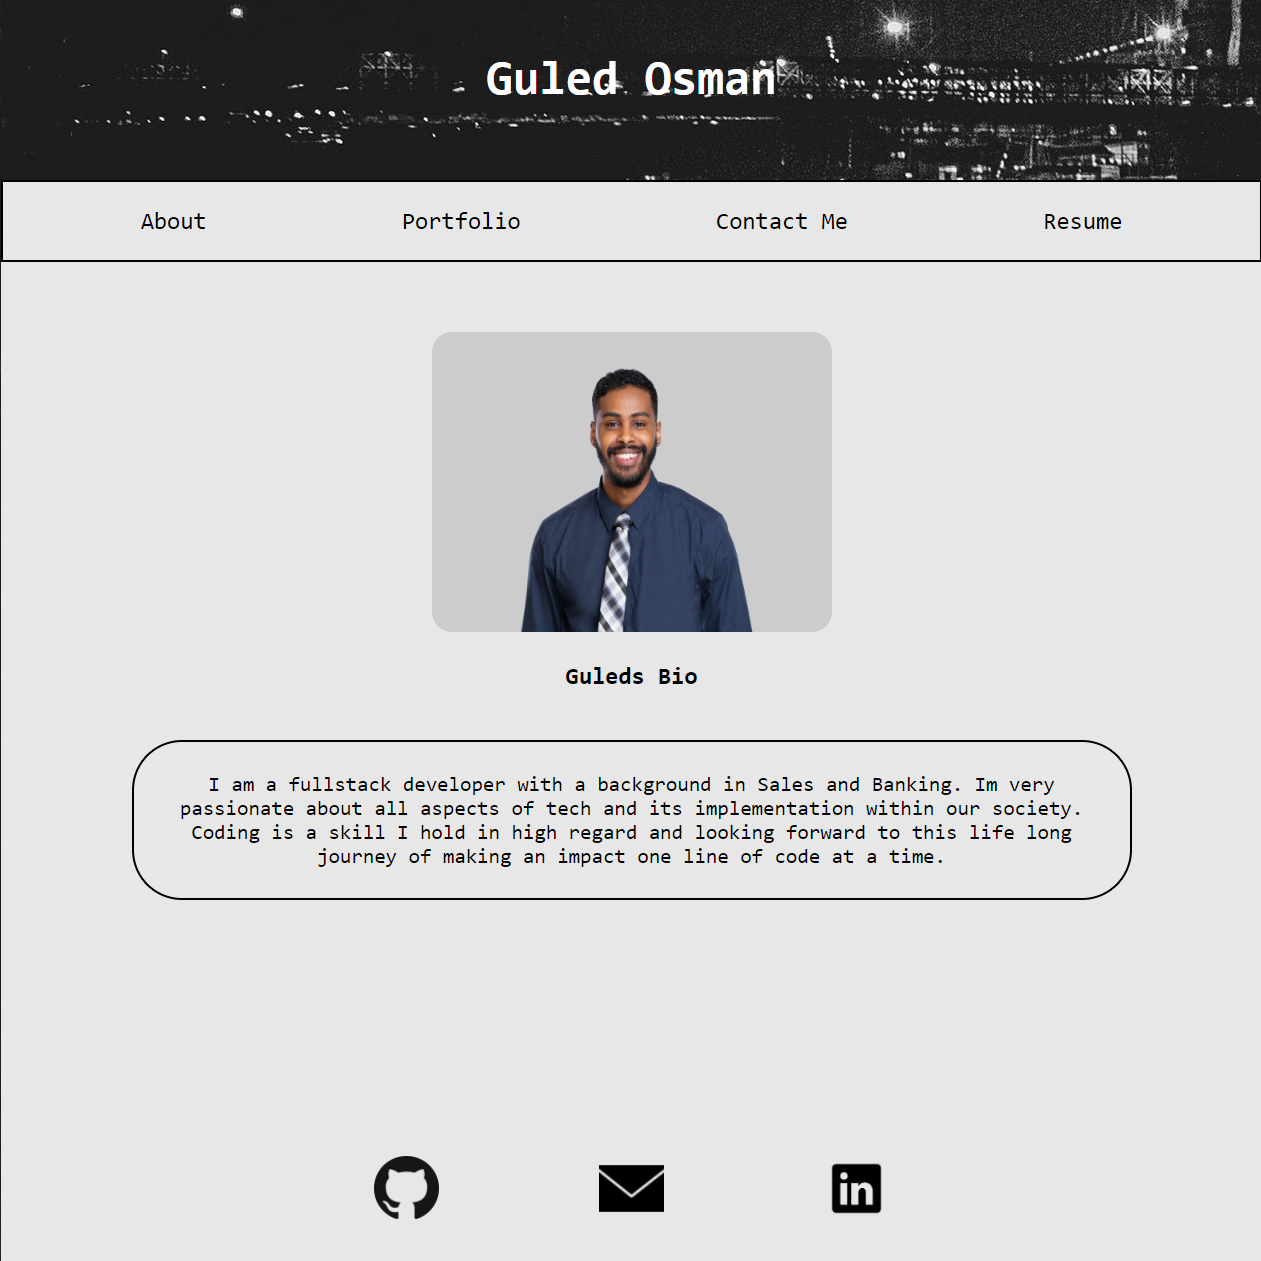
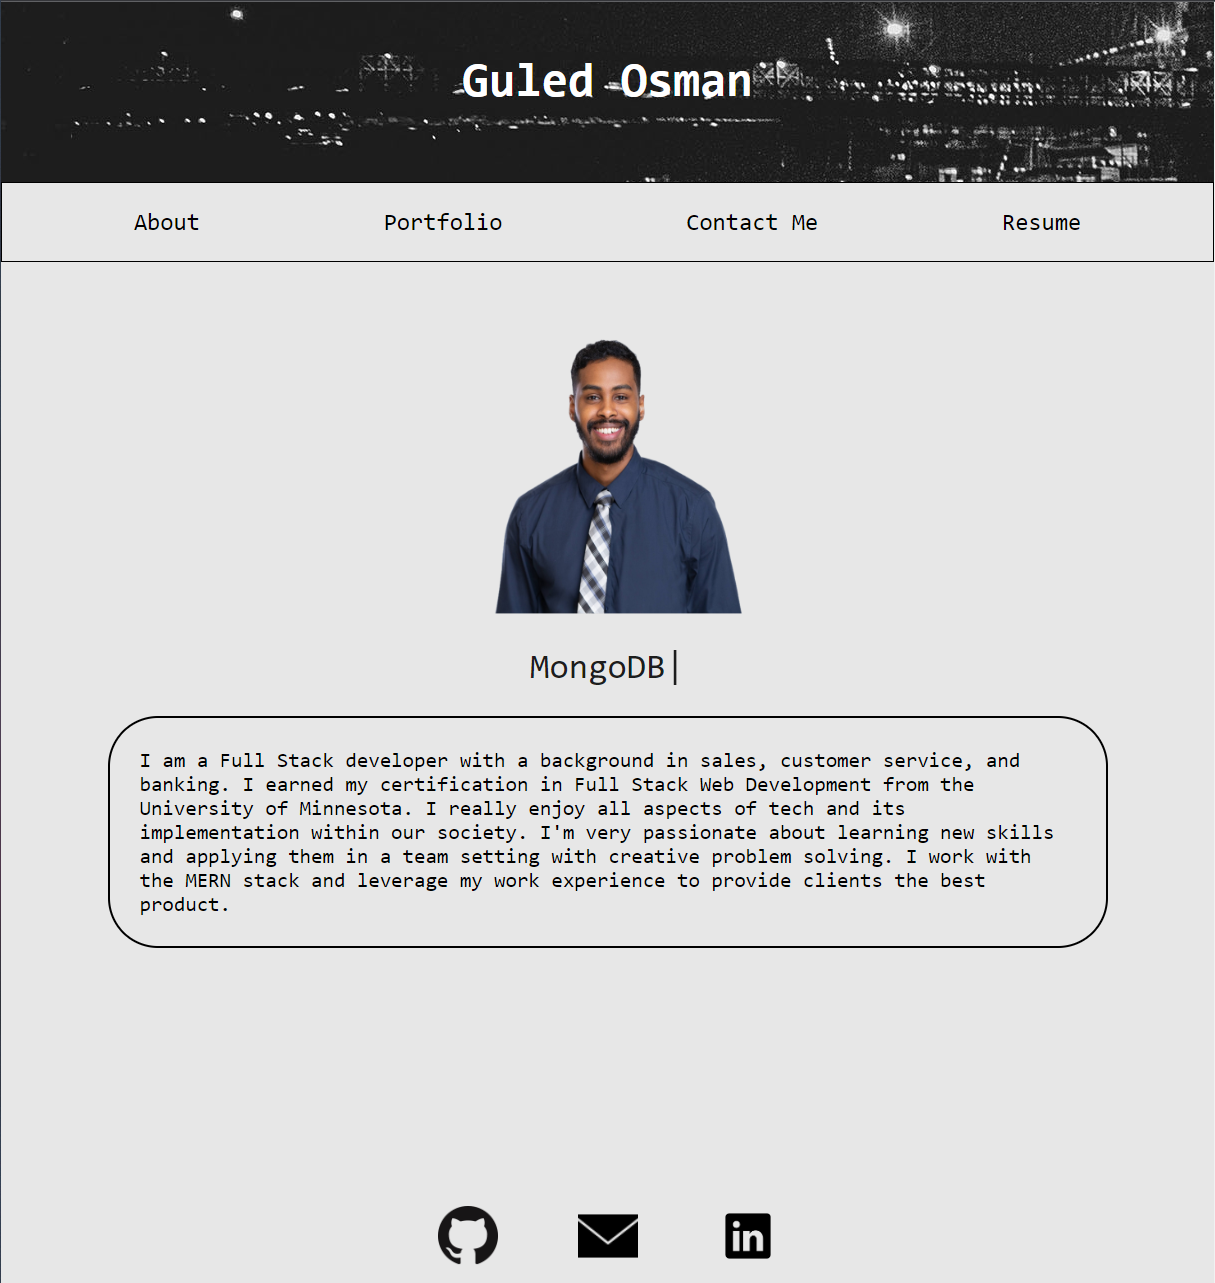
readme

diff --git a/src/index.css b/src/index.css
@@ -79,13 +79,22 @@ body {
   max-width: 1000px;
   margin: 0 auto 40px;
   margin-top: 20px;
+  text-align: left;
+}
+
+.borderp {
+  padding: 0px 5px 0px 5px;
 }
 
 .flex {
   display: flex;
   flex-wrap: wrap;
   text-decoration: none;
-  border: 2px solid black;
+  border: 1px solid black;
+  margin-top: 13px;
+}
+.flex a {
+  padding: 10px;
 }
 
 p {
@@ -123,7 +132,7 @@ input {
   display: flex;
   align-items: center;
   justify-content: center;
-  margin-top: 70px;
+  margin-top: 2px;
 }
 
 textarea {
@@ -182,11 +191,12 @@ footer {
   /* height: 40vh; */
   position: relative;
   margin: auto;
-  text-align: center;
-  margin-top: 60px;
+  text-align: left;
+  margin-top: 10px;
   display: flex;
   max-width: 600px;
   min-width: 400px;
+  justify-content: center;
 }
 
 .proj h2 {
@@ -210,6 +220,11 @@ footer {
   height: 350px;
   border-width: 3px;
   border-radius: 10px;
+  border: solid 1px;
+}
+.Projh {
+  text-align: center;
+  margin-top: 20px;
 }
 
 .port-buttons {
@@ -217,13 +232,13 @@ footer {
   color: white;
   position: absolute;
   bottom: 6%;
-  left: 4%;
   width: 60%;
   height: 170px;
   padding: 10px;
   border-radius: 10px;
   opacity: 0.85;
   box-shadow: 1px 1px 1px lightgray;
+  margin-right: 80px;
 }
 
 .port-buttons a {
@@ -235,6 +250,9 @@ footer {
   margin-right: 30px;
   box-shadow: 1px 1px 1px lightgray;
 }
+.port-buttons p {
+  text-align: left;
+}
 .port-buttons a:hover {
   background-color: rgb(255, 255, 255);
   color: black;
@@ -244,15 +262,8 @@ footer {
 .hover a:hover {
   background-color: rgb(29, 29, 29);
   color: white;
-  border-radius: 20px;
-  padding: 10px 10px;
-}
-
-.hover a:active {
-  background-color: rgb(29, 29, 29);
-  color: white;
-  border-radius: 20px;
-  padding: 10px 10px;
+  border-radius: 10px;
+  padding: 4px 10px 2px 10px;
 }
 
 @media screen and (max-width: 1400px) {
@@ -265,7 +276,6 @@ footer {
     margin: 10px auto;
     margin-top: 70px;
   }
-
   .proj img {
     width: 100%;
   }
@@ -275,11 +285,22 @@ footer {
   }
 }
 
+@media screen and (max-width: 1104px) {
+  .projectsDiv h2 {
+    font-size: 16px;
+  }
+  .port-buttons a {
+    font-size: 13px;
+  }
+  .port-buttons p {
+    font-size: 14px;
+  }
+}
+
 @media screen and (max-width: 738px) {
   .projectsDiv {
-    width: 75%;
     margin: auto;
-    margin-top: 30px;
+    margin-top: 70px;
   }
   .proj {
     width: 100%;
@@ -295,14 +316,33 @@ footer {
   }
 }
 
+@media screen and (max-width: 528px) {
+  .form-look {
+    margin-right: auto;
+    margin-left: auto;
+    width: 90px;
+    text-align: center;
+  }
+  .form-look input {
+    width: 300px;
+  }
+  .form-look textarea {
+    width: 300px;
+  }
+}
+
 @media screen and (max-width: 426px) {
   .icon {
     width: 40px;
   }
   .about-me {
-    padding: 20px;
+    padding: 0px 20px 0px 20px;
   }
   .guled-pic {
     width: 100%;
+  }
+  .projectsDiv img {
+    width: 379px;
+    margin: auto;
   }
 }

diff --git a/src/components/Portfolio/index.js b/src/components/Portfolio/index.js
@@ -5,10 +5,17 @@ function Portfolio() {
   const projects = [
     {
       name: "Perspective News",
-      description: "A news app that lets you save your news",
+      description: "A news app that lets you save your news.",
       github: "https://github.com/ItzGuled/perspective-news",
       link: "https://perspective-news.herokuapp.com/",
       img: "perspective"
+    },
+    {
+      name: "Password Generator",
+      description: "A quick and easy to use password generator to meet your needs.",
+      github: "https://github.com/ItzGuled/quick-password-generator",
+      link: "https://itzguled.github.io/quick-password-generator/",
+      img: "pass"
     },
     {
       name: "Gameporium",
@@ -18,32 +25,32 @@ function Portfolio() {
       img: "game"
     },
     {
-      name: "Photo Port",
-      description: "An art gallery that uses React.",
-      github: "https://github.com/ItzGuled/photo-port",
-      link: "https://itzguled.github.io/photo-port/",
-      img: "port"
+      name: "Pizza Hunt",
+      description: "Create your own delicious pizza with numerous options to choose from.",
+      github: "https://github.com/ItzGuled/pizza-hunt",
+      link: "https://fierce-falls-54250.herokuapp.com/",
+      img: "pizza"
     },
     {
       name: "Tech Blog",
-      description: "Tech blog website to interact with others.",
+      description: "Tech blog website to interact with others on all things tech.",
       github: "https://github.com/ItzGuled/tech-blog",
       link: "https://damp-inlet-92456.herokuapp.com",
       img: "tech"
     },
     {
-      name: "Weather Dashboard",
-      description: "A weather app that gives temp based on city",
-      github: "https://github.com/ItzGuled/weather-dashboard",
-      link: "https://itzguled.github.io/weather-dashboard/",
-      img: "weather"
+      name: "Work Day Scheduler",
+      description: "A scheduler to plan you day at work with ease of use.",
+      github: "https://github.com/ItzGuled/work-day-scheduler",
+      link: "https://itzguled.github.io/work-day-scheduler/",
+      img: "work"
     },
     
   ];
 
   return (
     <section>
-
+     <h1 className="Projh">Featured Projects</h1>
       <div className='projectsDiv'>
         {projects.map((project, i) => (
           <Project

diff --git a/src/components/Nav/index.js b/src/components/Nav/index.js
@@ -11,7 +11,6 @@ function Nav(props) {
           <a
             href="#about"
             onClick={() => setOption("About")}
-            id="about"
             className={option === "About" ?? "nav-link active"}
           >
             About
@@ -21,7 +20,7 @@ function Nav(props) {
           <a
             href="#portfolio"
             onClick={() => setOption("Portfolio")}
-            id="work"
+           
             className={option === "Work" ?? "nav-link active"}
           >
             Portfolio
@@ -31,7 +30,6 @@ function Nav(props) {
           <a
             href="#contact"
             onClick={() => setOption("Contact")}
-            id="contact"
             className={option === "Contact" ?? "nav-link active"}
           >
             Contact Me
@@ -41,7 +39,7 @@ function Nav(props) {
           <div>
             <a
               className="nav-link active"
-              href="https://drive.google.com/file/d/1a1AUCPGSNIBTaGQD87YsCGRfx8FYURHdnC6yMsdZLCk/view"
+              href="https://drive.google.com/file/d/1H-cdwzBWSFzE3QXpAoHC3eQvkKrynbMM0AlXu1_ckK8/view"
               target="_blank"
               rel="noreferrer"
             >

diff --git a/src/components/About/index.js b/src/components/About/index.js
@@ -25,11 +25,10 @@ function About() {
       </div>
       <div className="borderp">
         <p>
-          I am a fullstack developer with a background in Sales and Banking. Im
-          very passionate about all aspects of tech and its implementation
-          within our society. Coding is a skill I hold in high regard and
-          looking forward to this life long journey of making an impact one line
-          of code at a time.
+          I am a Full Stack developer with a background in sales, customer service, and banking. I earned my certification in Full Stack Web Development from the University of Minnesota. I really enjoy all
+          aspects of tech and its implementation within our society. I'm very
+          passionate about learning new skills and applying them in a team
+          setting with creative problem solving. I work with the MERN stack and leverage my work experience to provide clients the best product.
         </p>
       </div>
     </div>

diff --git a/src/components/Contact/index.js b/src/components/Contact/index.js
@@ -39,9 +39,9 @@ function Contact() {
 
   return (
     <section className="form-look">
-      
       <form id="contact-form" onSubmit={handleSubmit}>
         <div>
+        <h1 className="Projh">Contact Me</h1>
           <label htmlFor="name">Name:</label>
           <input
             type="text"

diff --git a/README.md b/README.md
@@ -1,18 +1,35 @@
 ## React-Portfolio
 
-## The Motivation
+Portfolio of my featured projects
+[Link to Deployment](https://itzguled.github.io/react-portfolio/)
 
-This project was a joy to do and it was the creation of my first React portfolio. This portflio uses many components to show info about me, projects, etc. 
-
-## Challenges
-
-There were numerous challenges with this project. Sometimes I would have the build up and its deployed successfully, but the about me DOM wouldnt load. There are many technical parts of React and its component usage that shed to light the intricacies and benefits of using this technology. 
-
-## Screenshot
 ![React](./src/assets/screenshots/screenshot.PNG)
 
-[Link to App](https://itzguled.github.io/react-portfolio/)
+## Table of Contents
+
+- [Usage](#usage)
+- [License](#license)
+- [Contributions](#contributions)
+- [Questions](#questions)
+
+## Usage
+
+Click "About" to view a brief description of me. Click "Portfolio" to view my featured projects. Send a message by clicking the "Contact". View my resume by clicking "Resume".
 
 ## License
- [![License: MIT](https://img.shields.io/badge/License-MIT-yellow.svg)](https://opensource.org/licenses/MIT)
 
+This project is licensed under the MIT license.
+
+![MIT Badge](https://img.shields.io/npm/l/f)
+
+## Technologies
+
+Created with JavaScript, React.js and Node.js.
+
+## Credits
+
+Created by Guled Osman
+
+## Questions
+
+Post an issue if you see a bug or suggested improvement.
